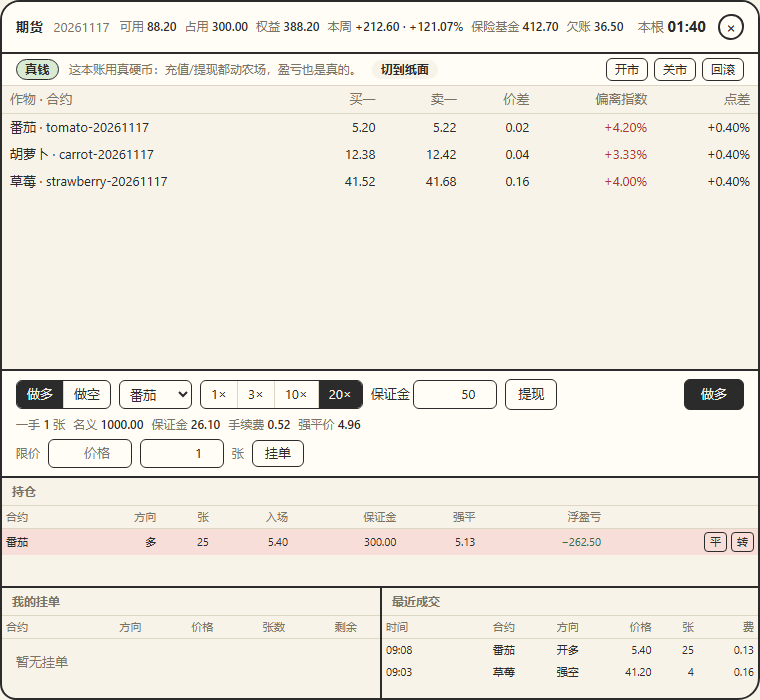
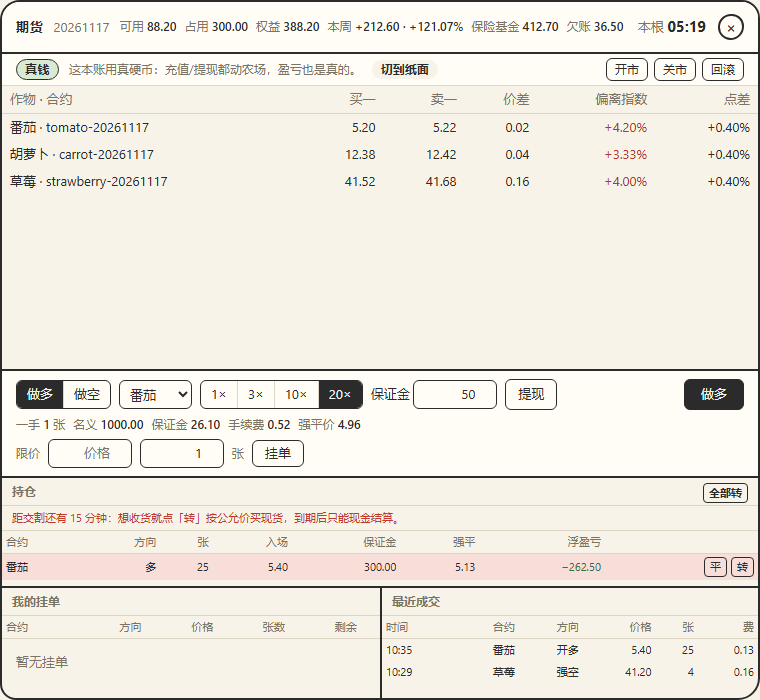
feat(futures): 交割只有现金这件事说清楚，持仓可以一键全部转现货（1.11.0）
到期一直是现金结算（四根收盘均价的差额进 balance），可窗口里既没提醒，也没
批量转现货的路子：想在收盘前把仓位变成作物，只能一笔一笔点「转」。

- 持仓表头上方加一行提醒：收盘前 30 分钟红字「距交割还有 N 分钟…」，
  已过 20:00 的合约改成「只能现金结算了」。提醒只影响显示，结算口径不动。
- 持仓表头右侧加「全部转」：本地动作 futures-convert-all，最多 8 条
  {id, lots}，房主逐笔 convertToSpot，钱的账、仓库的账都逐笔算；
  余额不够或仓库放不下的那几笔单独跳过，全失败才报错并带原因。
  peer 侧拆成逐笔 futures-convert 转发，协议报文格式没变。
- 视图新增 expiry / canConvertAll；关市时按钮灰掉；纸面账户同样可用。
- README、CONTEXT 把「交割只有现金、想收货自己转」写成明确口径，
  新增 docs/releases/1.11.0.md 与 release.md 版本记录，版本 1.11.0。

测试：npm run check → 1214 用例 / 1213 通过 / 1 跳过 / 0 失败。

diff --git a/test/futures-window.test.js b/test/futures-window.test.js
@@ -380,6 +380,64 @@ test('shared：票 98 的挂单/撤单/转现货/切档动作各有白名单', (
   assert.deepEqual(shared.normalizeFuturesAction({ action: 'futures-rollback' }), { action: 'futures-rollback' })
 })
 
+test('shared：票 109 的「全部转现货」只收 1–8 笔，坏 id / 坏张数整条拒', () => {
+  const id = '0b7c1f0e-1f2a-4a4b-9a3e-1d2c3b4a5f60'
+  const other = '1c8d2f1f-2f3b-4b5c-8b4f-2e3d4c5b6a71'
+  assert.deepEqual(
+    shared.normalizeFuturesAction({ action: 'futures-convert-all', positions: [{ id, lots: 2 }, { id: other, lots: 5 }] }),
+    { action: 'futures-convert-all', positions: [{ id, lots: 2 }, { id: other, lots: 5 }] }
+  )
+  // 空清单 / 超过 8 笔 / 坏 id / 张数为 0 都不收。
+  assert.equal(shared.normalizeFuturesAction({ action: 'futures-convert-all', positions: [] }), null)
+  assert.equal(shared.normalizeFuturesAction({ action: 'futures-convert-all' }), null)
+  const many = Array.from({ length: 9 }, () => ({ id, lots: 1 }))
+  assert.equal(shared.normalizeFuturesAction({ action: 'futures-convert-all', positions: many }), null)
+  assert.equal(shared.normalizeFuturesAction({ action: 'futures-convert-all', positions: [{ id: 'nope', lots: 1 }] }), null)
+  assert.equal(shared.normalizeFuturesAction({ action: 'futures-convert-all', positions: [{ id, lots: 0 }] }), null)
+})
+
+test('视图模型：票 109 交割前 30 分钟提醒，并给出「全部转」的开关', () => {
+  const draft = { side: 'long', margin: 50, leverage: 20, cropId: 'tomato' }
+  const held = [{
+    id: '0b7c1f0e-1f2a-4a4b-9a3e-1d2c3b4a5f60',
+    crop: 'tomato',
+    contract: 'tomato-20261117',
+    side: 'long',
+    lots: 2,
+    entry: 5,
+    margin: 50,
+    leverage: 20,
+    unrealized: 1
+  }]
+  const quoteAt = (expireAt) => ({
+    tomato: { fair: 5, bid: 4.99, ask: 5.01, contract: { id: 'tomato-20261117', openAt: TUESDAY - 20 * 3600 * 1000, expireAt } }
+  })
+
+  const soon = view.build(
+    sampleView({ mode: 'live', accountMode: 'live', quotes: quoteAt(TUESDAY + 20 * 60 * 1000), positions: held }),
+    draft,
+    TUESDAY
+  )
+  assert.equal(soon.expiry.urgent, true)
+  assert.match(soon.expiry.text, /距交割还有 \d+ 分钟/)
+  assert.equal(soon.canConvertAll, true)
+
+  // 还早：不提醒，但「全部转」仍然可用（想提前收货不用等提醒）。
+  const later = view.build(
+    sampleView({ mode: 'live', quotes: quoteAt(TUESDAY + 6 * 3600 * 1000), positions: held }),
+    draft,
+    TUESDAY + 3600 * 1000
+  )
+  assert.equal(later.expiry.text, null)
+  assert.equal(later.expiry.urgent, false)
+  assert.equal(later.canConvertAll, true)
+
+  // 已到期：提醒改成「只能现金结算」；关市时按钮灰掉。
+  const expired = view.build(sampleView({ mode: 'live', quotes: quoteAt(TUESDAY), positions: held }), draft, TUESDAY + 60 * 1000)
+  assert.match(expired.expiry.text, /只能现金结算/)
+  assert.equal(view.build(sampleView({ mode: 'off', quotes: quoteAt(TUESDAY + 6 * 3600 * 1000) }), draft, TUESDAY).canConvertAll, false)
+})
+
 test('视图模型：账户档位是纸面也能交易；关市才画成关闭', () => {
   const draft = { side: 'long', margin: 50, leverage: 20, cropId: 'tomato' }
   const paper = view.build(

diff --git a/desktop/futures-view.js b/desktop/futures-view.js
@@ -116,6 +116,34 @@
     return (Math.floor(now / SLOT_MS) + 1) * SLOT_MS
   }
 
+  /**
+   * 票 109：交割倒计时。所有报价共用同一张日合约，取其中最早的 `expireAt`。
+   * 收盘前 30 分钟开始提醒——想收货就点「转」，过了 20:00 只能现金结算。
+   */
+  const EXPIRE_WARN_MS = 30 * 60 * 1000
+  function expiryOf (view, now) {
+    const stamp = finite(now)
+    let at = null
+    const quotes = view?.quotes !== null && typeof view?.quotes === 'object' && !Array.isArray(view?.quotes)
+      ? Object.values(view.quotes)
+      : []
+    for (const quote of quotes) {
+      const expireAt = finite(quote?.contract?.expireAt)
+      if (expireAt === null || expireAt <= 0) continue
+      if (at === null || expireAt < at) at = expireAt
+    }
+    if (at === null || stamp === null) return { at, urgent: false, text: null }
+    const left = at - stamp
+    if (left <= 0) return { at, urgent: true, text: '这张合约已到期，只能现金结算了。' }
+    if (left > EXPIRE_WARN_MS) return { at, urgent: false, text: null }
+    const minutes = Math.max(1, Math.ceil(left / 60000))
+    return {
+      at,
+      urgent: true,
+      text: '距交割还有 ' + minutes + ' 分钟：想收货就点「转」按公允价买现货，到期后只能现金结算。'
+    }
+  }
+
   function limitsOf (view) {
     const limits = view?.limits ?? {}
     const leverages = Array.isArray(limits.leverages) && limits.leverages.length > 0
@@ -524,6 +552,8 @@
     const preview = orderPreview(view, draft)
     const orders = orderRows(view)
     const mode = modeOf(view)
+    const positions = positionRows(view)
+    const expiry = expiryOf(view, stamp)
     return {
       status: statusOf(view),
       title: title({ ...view, now: stamp, slotEnd: end }),
@@ -539,7 +569,10 @@
       capsLine: capsLine(view),
       pendingLine: pendingLine(view),
       quotes: quoteRows(view),
-      positions: positionRows(view),
+      positions,
+      /** 票 109：一次把全部持仓转成现货；只有能交易、且真有持仓时才给按。 */
+      canConvertAll: positions.length > 0 && mode.kind !== 'off' && expiry.at !== null,
+      expiry,
       orders,
       orderCount: orders.length,
       deliveryLine: deliveryLine(view),
@@ -569,6 +602,7 @@
     formatClock,
     countdown,
     slotEndOf,
+    expiryOf,
     limitsOf,
     header,
     quoteRows,

diff --git a/desktop/futures.js b/desktop/futures.js
@@ -25,7 +25,9 @@
     askedRefreshAt: 0,
     busy: false,
     // 1.10.0：上一拍画出来的账户档位（切换按钮用它算「下一档」）。
-    account: null
+    account: null,
+    // 票 109：「全部转」要提交的持仓清单（id + 张数），每拍重算。
+    convertTargets: []
   }
 
   function toast (text) {
@@ -243,6 +245,15 @@
     paintTrades(built.trades)
     el('ordersTitle').textContent = built.orderCount > 0 ? '我的挂单 · ' + built.orderCount : '我的挂单'
 
+    // 票 109：交割前的提醒，与「全部转」按钮同一处——错过就只能现金结算。
+    const expiry = built.expiry ?? { text: null, urgent: false }
+    el('expiryHint').textContent = expiry.text ?? ''
+    el('expiryHint').hidden = expiry.text === null
+    el('convertAll').disabled = built.canConvertAll !== true || state.busy
+    state.convertTargets = (built.positions ?? [])
+      .filter((row) => typeof row.id === 'string' && row.lotsValue > 0)
+      .map((row) => ({ id: row.id, lots: row.lotsValue }))
+
     el('pLots').textContent = built.previewText.lots
     el('pNotional').textContent = built.previewText.notional
     el('pMargin').textContent = built.previewText.margin
@@ -362,6 +373,17 @@
       bridge.submit({ action: 'futures-convert', positionId: convertId, lots })
       setTimeout(() => { state.busy = false; render() }, 3000)
     }
+  })
+
+  // 票 109：一次把全部持仓转成现货。钱不够/仓库放不下的那几笔会被宿主拒，剩下的照转。
+  el('convertAll').addEventListener('click', () => {
+    if (state.busy) return
+    const targets = Array.isArray(state.convertTargets) ? state.convertTargets : []
+    if (targets.length === 0) return
+    if (!window.confirm('把这 ' + targets.length + ' 笔持仓全部按公允价转成现货？')) return
+    state.busy = true
+    bridge.submit({ action: 'futures-convert-all', positions: targets })
+    setTimeout(() => { state.busy = false; render() }, 3000)
   })
 
   el('orders').addEventListener('click', (event) => {

diff --git a/src/service.js b/src/service.js
@@ -1359,6 +1359,52 @@ export function createService (ctx, options = {}) {
       }
       return result
     }
+    // 票 109：一次把全部持仓转成现货。窗口只报「哪几笔、各多少张」；
+    // 房主逐笔算，某笔钱不够/仓库放不下就跳过它、继续下一笔（部分成功也用得上）。
+    if (action === 'futures-convert-all') {
+      if (futures === null) return { ok: false, error: 'starting' }
+      const wanted = Array.isArray(body?.positions) ? body.positions.slice(0, 8) : []
+      if (wanted.length === 0) return { ok: false, error: 'bad-positions' }
+      if (!isFuturesHost()) {
+        let sent = 0
+        for (const item of wanted) {
+          const pending = futuresConvertPending(item?.id, item?.lots)
+          if (pending?.ok === true) sent += 1
+        }
+        return sent > 0
+          ? { ok: true, action: 'futures-convert-all', sent }
+          : { ok: false, error: 'pending-failed' }
+      }
+      let done = 0
+      let failed = 0
+      let lastNotice = null
+      for (const item of wanted) {
+        const result = await futures.convertToSpot({
+          positionId: item?.id,
+          lots: item?.lots,
+          at: futuresClock()
+        })
+        if (result?.ok === true) {
+          done += 1
+        } else {
+          failed += 1
+          if (typeof result?.notice === 'string') lastNotice = result.notice
+        }
+      }
+      if (done > 0) {
+        refreshFuturesWindow()
+        refreshFarmWindow()
+      }
+      return {
+        ok: done > 0,
+        action: 'futures-convert-all',
+        converted: done,
+        failed,
+        notice: done > 0
+          ? null
+          : (lastNotice ?? '一笔都没转成：余额不够按公允价买现货，或者仓库放不下。')
+      }
+    }
     // 票 95：挂限价单。peer 只发「限价、方向、张数、杠杆」，冻结多少保证金由房主算。
     if (action === 'futures-place') {
       if (futures === null) return { ok: false, error: 'starting' }

diff --git a/desktop/shared.js b/desktop/shared.js
@@ -386,6 +386,7 @@ const OVERLAY_RECT_MAX_AGE_MS = 3000
     'futures-place',
     'futures-cancel',
     'futures-convert',
+    'futures-convert-all',
     'futures-mode',
     'futures-account-mode',
     'futures-rollback',
@@ -2601,6 +2602,19 @@ const OVERLAY_RECT_MAX_AGE_MS = 3000
       const lots = strictBoardInt(raw.lots, 1, 100000)
       if (positionId === null || lots === null) return null
       return { action, positionId, lots }
+    }
+    // 票 109：一次把持仓全部转成现货。窗口只报「哪几笔、各多少张」，价格与钱都由宿主算。
+    if (action === 'futures-convert-all') {
+      const list = Array.isArray(raw.positions) ? raw.positions : null
+      if (list === null || list.length === 0 || list.length > 8) return null
+      const positions = []
+      for (const item of list) {
+        const id = normalizeUuid(item?.id)
+        const lots = strictBoardInt(item?.lots, 1, 100000)
+        if (id === null || lots === null) return null
+        positions.push({ id, lots })
+      }
+      return { action, positions }
     }
     const side = BOARD_SIDES.includes(raw.side) ? raw.side : null
     const margin = strictBoardInt(raw.margin, 1, FUTURES_MAX_MARGIN)

diff --git a/desktop/futures.html b/desktop/futures.html
@@ -151,6 +151,10 @@
     padding: 1px 5px; cursor: pointer; font: inherit; font-size: 11px;
   }
   .close-btn + .close-btn { margin-left: 4px; }
+  /* 票 109：交割前提醒——持仓表头下面一条，红字只在收盘前 30 分钟出现。 */
+  .expiry-hint { padding: 4px 10px; font-size: 11px; color: var(--danger); border-bottom: 1px solid var(--soft); }
+  .bulk-btn { float: right; margin-left: 8px; font-size: 11px; }
+  .bulk-btn:disabled { opacity: .45; cursor: default; }
   .limit { margin-top: 6px; font-variant-numeric: tabular-nums; }
   .limit .lbl { color: var(--muted); font-size: 12px; }
   .limit .hint { color: var(--danger); font-size: 12px; }
@@ -249,7 +253,8 @@
 
   <div class="bottom">
     <section>
-      <h2>持仓</h2>
+      <h2>持仓<button class="close-btn bulk-btn" id="convertAll" type="button" title="把全部持仓按公允价转成现货（到期后只能现金结算）">全部转</button></h2>
+      <div class="expiry-hint" id="expiryHint" hidden></div>
       <div class="scroll">
         <table>
           <thead><tr><th>合约</th><th>方向</th><th>张</th><th>入场</th><th>保证金</th><th>强平</th><th>浮盈亏</th><th></th></tr></thead>

diff --git a/docs/releases/1.11.0.md b/docs/releases/1.11.0.md
@@ -1,0 +1,32 @@
+# 1.11.0
+
+期货的交割一直只有现金一种，但窗口里没把这件事说清楚：快到 20:00 也没有提醒，想把仓位换成作物只能一笔一笔点「转」，一个五笔持仓的人要点五次、看五次行情。
+
+这个版本不加新的结算方式，只把「想收货就自己转」这条路铺顺。
+
+## 交割前的提醒
+
+- 持仓表头上方多了一行红字，只在收盘前 30 分钟内出现：「距交割还有 N 分钟：想收货就点「转」按公允价买现货，到期后只能现金结算。」
+- 已经过了 20:00 的合约，这行改成「这张合约已到期，只能现金结算了。」
+- 提醒不拦下单，也不改结算：到期仍然是四根收盘均价的现金结清，交割费 0.1% 不变。
+
+## 「全部转」按钮
+
+- 持仓表头右边多了「全部转」：一次把这批持仓全部按当前公允价买成现货入库。
+- 一笔一笔算，不是打包打折：每笔各自扣「张数 × 100 × 公允价」加 0.1% 吃单费，各自释放自己那部分保证金。
+- 钱不够或仓库放不下的那几笔会被单独跳过，剩下的照转；一笔都没转成时才报错，并说明原因。
+- 纸面账户同样能用——转出来的作物进的是自己的农场，只是账本那一侧是纸面的。
+- 关市（房主关掉市场）时按钮灰掉。
+
+## 兼容性
+
+- 新增一个本地动作 `futures-convert-all`，参数是最多 8 条 `{id, lots}`；peer 侧会拆成逐笔的 `futures-convert` 转给房主，协议报文格式没变。
+- 视图新增 `expiry` 与 `canConvertAll` 两个字段，旧窗口忽略它们不影响。
+- 交割规则、交割价口径、费用都没有改动。
+
+## 顺手补的文档
+
+- `README.md` 期货节的「转现货」一行补上「全部转」，节奏段写清「交割只有现金」。
+- `CONTEXT.md` 的「交割」「转现货」两个词条改成现金交割的准确口径。
+
+测试：`npm run check` → 1214 用例 / 1213 通过 / 1 跳过 / 0 失败。

diff --git a/docs/release.md b/docs/release.md
@@ -11,6 +11,17 @@
 （`gh release edit --notes-file`），所以改文案只要改 `docs/releases/<version>.md`
 再移动 tag 即可。**先写好这一篇再打 tag，能省一次来回。**
 
+## 1.11.0 版本记录
+
+GitHub Release 正文就是 [`releases/1.11.0.md`](releases/1.11.0.md)。
+
+交割说清楚 + 「全部转」：交割仍然只有现金一种（四根收盘均价结清、交割费 0.1%），
+但窗口在收盘前 30 分钟会亮红字提醒「想收货就点转」，持仓表头右侧多了「全部转」按钮，
+一次把整批持仓按公允价买成现货；逐笔算钱、逐笔跳过转不动的（余额不够或仓库放不下），
+一笔都没转成才报错。新增本地动作 `futures-convert-all`（≤8 条 `{id, lots}`），
+peer 侧拆成逐笔 `futures-convert`，协议报文没变。视图多 `expiry` / `canConvertAll` 两个字段。
+测试：1214 用例 / 1213 通过 / 1 跳过 / 0 失败。
+
 ## 1.10.0 版本记录
 
 GitHub Release 正文就是 [`releases/1.10.0.md`](releases/1.10.0.md)。

diff --git a/CONTEXT.md b/CONTEXT.md
@@ -471,12 +471,13 @@ _Avoid_: 爆仓, 清算, margin call
 _Avoid_: 结算价（盘口口径）, 收盘价, expiry price
 
 **交割 (Delivery)**：
-到期把持仓按交割价结清：默认现金（差额进/出 `balance`），玩家也可以主动「转现货」拿作物。
-_Avoid_: 行权, 到期, exercise, expiry
+到期把持仓按交割价结清：**只有现金**（差额进/出 `balance`），没有实物交割。
+想拿作物要提前自己「转现货」，窗口在收盘前 30 分钟会提醒。
+_Avoid_: 行权, 到期, exercise, expiry, 实物交割
 
 **转现货 (Convert to Spot)**：
 把期货仓位换成实物：按公允价成交现货 + 平掉等量合约，两步原子完成。
-它是玩家主动行为，不是到期默认路径。
+它是玩家主动行为，不是到期默认路径；窗口支持一笔一笔转，也支持表头「全部转」（钱不够或仓库放不下的那几笔跳过）。
 _Avoid_: 提货, 交割, 换仓, roll
 
 **盯市 (Mark to Market)**：
